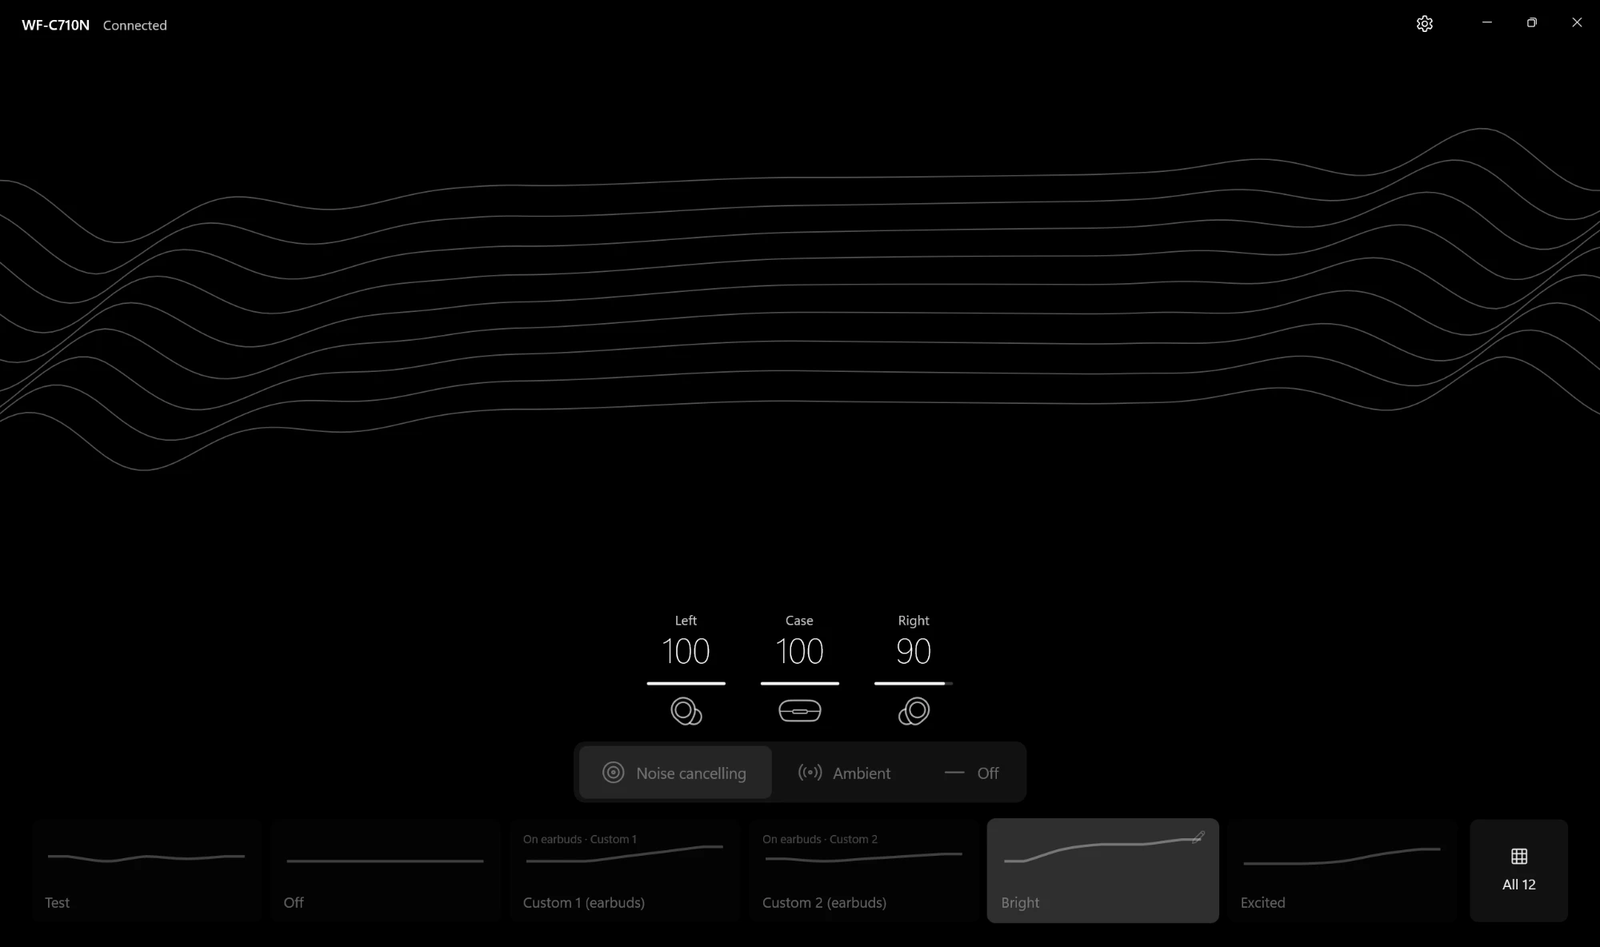
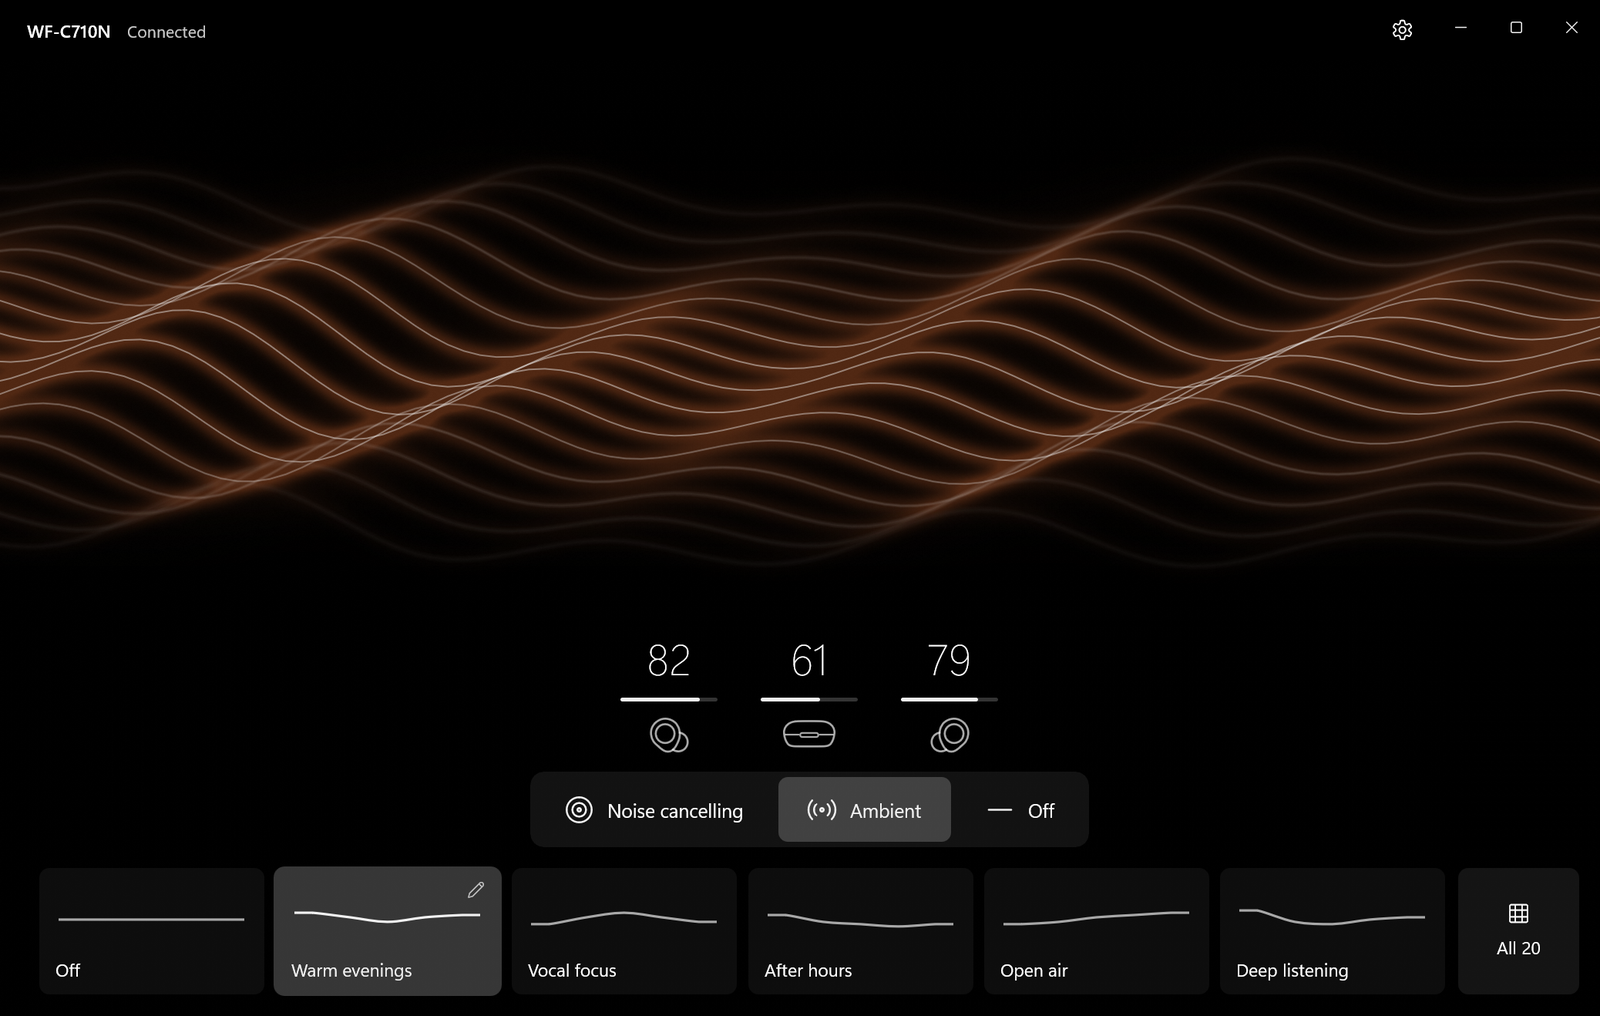
README for 0.6.2 with screenshots taken while music plays
- The README describes the current app: the fifteen lines and their
  colour, the frosted library, the editor's analyser and compare
  afterimage, the Clear Bass column, Start with Windows, and a note that
  changing multipoint reconnects the earbuds.
- New screenshots of the main screen, library, editor, compare and
  settings, with demo music, so the colour shows. The Find your EQ
  render is gone; it predated the current look.
- --readme-shots (development only) takes them: it captures the window
  as Windows composes it, swap chains included.
- The editor's band and Clear Bass labels keep clear of the window's
  bottom edge again; moving Clear Bass into its column had removed the
  row that spaced them.

diff --git a/ui/Dusk.xaml b/ui/Dusk.xaml
@@ -200,10 +200,10 @@
     <Grid x:Name="BandGrid" Margin="44,12,20,12"/>
     <Canvas x:Name="CurveCanvas" Margin="12" IsHitTestVisible="False"/>
    </Grid>
-   <Grid x:Name="BandValues" Grid.Row="2" Margin="148,10,48,0"/>
+   <Grid x:Name="BandValues" Grid.Row="2" Margin="148,10,48,22"/>
    <!-- Clear Bass (0.5.18): Sony's bass processing, not a sixth EQ point, so it is its own glowing
         column beside the graph, at the bass end. Drag it up or down; the glow grows from 0. -->
-   <Grid x:Name="BassRow" Grid.Row="1" Grid.RowSpan="2" Width="64" HorizontalAlignment="Left" Margin="28,16,0,0">
+   <Grid x:Name="BassRow" Grid.Row="1" Grid.RowSpan="2" Width="64" HorizontalAlignment="Left" Margin="28,16,0,22">
     <Grid.RowDefinitions><RowDefinition Height="*"/><RowDefinition Height="Auto"/></Grid.RowDefinitions>
     <Border Background="#05FFFFFF" BorderBrush="#12FFFFFF" BorderThickness="1" CornerRadius="8"/>
     <Grid x:Name="BassTrack" Margin="0,12">

diff --git a/ui/main.cpp b/ui/main.cpp
@@ -88,7 +88,7 @@ static std::wstring review_view = L"Main", review_pass = L"pass1";
 static int initial_width = 1280, initial_height = 800;
 static fs::path review_timeline;
 static double review_time = 30;
-static bool review_sequence = false, review_motion = false, review_wave_motion=false, stage_bench=false; // stage_bench: 25 s of the stage with demo music and GPU timers (development only)
+static bool review_sequence = false, review_motion = false, review_wave_motion=false, stage_bench=false, readme_shots=false; // readme_shots: the README's screenshots, with demo music (development only). stage_bench: 25 s of the stage with demo music and GPU timers (development only)
 
 static Color rgba(unsigned rgb, double alpha = 1) {
     return Color{static_cast<uint8_t>(std::clamp(alpha, 0.0, 1.0) * 255 + .5), static_cast<uint8_t>(rgb >> 16), static_cast<uint8_t>(rgb >> 8), static_cast<uint8_t>(rgb)};
@@ -324,7 +324,11 @@ struct DuskApp : ApplicationT<DuskApp, Markup::IXamlMetadataProvider> {
             bar.ButtonHoverBackgroundColor(rgba(0xFFFFFF, .1));
             if (render_review) {
                 set_review_state();
-                window.AppWindow().MoveAndResize({-20000, -20000, initial_width, initial_height});
+                // Screenshots for the README need the whole page at the screen's scale and the handle
+                // to capture it with; other review exports keep their 1:1 offscreen window.
+                check_hresult(window.as<IWindowNative>()->get_WindowHandle(&main_hwnd));
+                const double shot_scale = readme_shots ? GetDpiForWindow(main_hwnd) / 96.0 : 1.0;
+                window.AppWindow().MoveAndResize({-20000, -20000, static_cast<int>(initial_width * shot_scale), static_cast<int>(initial_height * shot_scale)});
                 root.Width(initial_width);
                 root.Height(initial_height);
                 RectangleGeometry frame;
@@ -819,7 +823,7 @@ struct DuskApp : ApplicationT<DuskApp, Markup::IXamlMetadataProvider> {
     // Find your EQ hides Clear Bass: the graph then takes the column's space back.
     void bass_column(bool shown) {
         get<FrameworkElement>(L"CurveArea").Margin(ThicknessHelper::FromLengths(shown ? 104 : 28, 16, 28, 0));
-        get<FrameworkElement>(L"BandValues").Margin(ThicknessHelper::FromLengths(shown ? 148 : 72, 10, 48, 0));
+        get<FrameworkElement>(L"BandValues").Margin(ThicknessHelper::FromLengths(shown ? 148 : 72, 10, 48, 22)); // the labels keep clear of the window's bottom edge
     }
     void layout_bass() {
         auto track = get<FrameworkElement>(L"BassTrack"); const double h = track.ActualHeight(); if (h < 40) return;
@@ -2451,6 +2455,17 @@ struct DuskApp : ApplicationT<DuskApp, Markup::IXamlMetadataProvider> {
         phase=it->phase;pulse=it->pulse;apply_light();
         apply_field(seconds);
     }
+    // Development (--readme-shots): the window's client area as Windows composes it, swap chains included.
+    void capture_window(fs::path const& file){
+        RECT r{};GetClientRect(main_hwnd,&r);const int w=r.right-r.left,h=r.bottom-r.top;if(w<=0||h<=0)return;
+        HDC screen=GetDC(nullptr);HDC memory=CreateCompatibleDC(screen);
+        BITMAPINFO info{};info.bmiHeader={sizeof(BITMAPINFOHEADER),w,-h,1,32,BI_RGB};void* bits{};
+        HBITMAP bitmap=CreateDIBSection(screen,&info,DIB_RGB_COLORS,&bits,nullptr,0);auto previous=SelectObject(memory,bitmap);
+        PrintWindow(main_hwnd,memory,PW_CLIENTONLY|0x2/*PW_RENDERFULLCONTENT*/);GdiFlush();
+        BITMAPFILEHEADER header{};header.bfType=0x4D42;header.bfOffBits=sizeof(header)+sizeof(BITMAPINFOHEADER);header.bfSize=header.bfOffBits+w*h*4;
+        std::ofstream out(file,std::ios::binary);out.write(reinterpret_cast<const char*>(&header),sizeof(header));out.write(reinterpret_cast<const char*>(&info.bmiHeader),sizeof(BITMAPINFOHEADER));out.write(static_cast<const char*>(bits),static_cast<std::streamsize>(w)*h*4);
+        SelectObject(memory,previous);DeleteObject(bitmap);DeleteDC(memory);ReleaseDC(nullptr,screen);
+    }
     Windows::Foundation::IAsyncAction capture_review(fs::path const& file,std::ofstream* samples=nullptr,double seconds=0){
         Imaging::RenderTargetBitmap bitmap;
         co_await bitmap.RenderAsync(root,initial_width,initial_height);
@@ -2534,6 +2549,27 @@ struct DuskApp : ApplicationT<DuskApp, Markup::IXamlMetadataProvider> {
             std::wstring view = review_view;
             std::transform(view.begin(), view.end(), view.begin(), [](wchar_t c) { return static_cast<wchar_t>(towlower(c)); });
             const auto filename = view + L"-" + std::to_wstring(initial_width) + L"x" + std::to_wstring(initial_height);
+            if(readme_shots){
+                // The README's screenshots: the window as Windows shows it (PrintWindow with the full
+                // composition, so the swap chains are in it), with demo music and sample batteries.
+                set_battery(L"BatteryLeft",82,true);set_battery(L"BatteryRight",79,true);set_battery(L"BatteryCase",61,true);set_controls_live(true,false);
+                animations=true;demo_music=true;glow_level=1;last_tick=precise_ms();
+                navigate(L"Main");set_noise(dusk::Noise::Ambient);
+                for(int i=0;i<150;++i){tick();timer.Stop();unpace();co_await resume_after(std::chrono::milliseconds(16));co_await ui;}
+                capture_window(folder/L"readme-main.bmp");
+                open_drawer();for(int i=0;i<70;++i){tick();timer.Stop();unpace();co_await resume_after(std::chrono::milliseconds(16));co_await ui;}
+                capture_window(folder/L"readme-library.bmp");
+                close_drawer();for(int i=0;i<40;++i){tick();timer.Stop();unpace();co_await resume_after(std::chrono::milliseconds(16));co_await ui;}
+                open_editor();{auto curve=model.current().saved;curve[0]=3;curve[2]=-2;curve[3]=4;curve[5]=4;commit_curve(curve);after_change();}
+                for(int i=0;i<120;++i){tick();timer.Stop();unpace();co_await resume_after(std::chrono::milliseconds(16));co_await ui;}
+                capture_window(folder/L"readme-editor.bmp");
+                start_compare();for(int i=0;i<30;++i){tick();timer.Stop();unpace();co_await resume_after(std::chrono::milliseconds(16));co_await ui;}
+                capture_window(folder/L"readme-compare.bmp");end_compare();
+                navigate(L"Settings");root.UpdateLayout();layout_settings();
+                for(int i=0;i<30;++i){tick();timer.Stop();unpace();co_await resume_after(std::chrono::milliseconds(16));co_await ui;}
+                capture_window(folder/L"readme-settings.bmp");
+                animations=false;demo_music=false;navigate(L"Main");
+            }
             if(stage_bench){
                 animations=true;demo_music=true;glow_level=1;navigate(L"Main");set_noise(dusk::Noise::Ambient);last_tick=precise_ms();
                 const auto until=GetTickCount64()+25000;
@@ -2656,6 +2692,8 @@ int WINAPI wWinMain(HINSTANCE, HINSTANCE, PWSTR command, int) {
     review_time=std::stod(option(L"--audio-time=",L"30"));
     review_wave_motion=args.find(L"--wave-motion-review")!=std::wstring::npos;
     stage_bench=args.find(L"--stage-bench")!=std::wstring::npos;
+    readme_shots=args.find(L"--readme-shots")!=std::wstring::npos;
+    if(readme_shots){initial_width=1200;initial_height=760;}
     review_sequence=args.find(L"--sequence")!=std::wstring::npos;
     review_motion=args.find(L"--motion-review")!=std::wstring::npos;
     if((!review_timeline.empty()||review_sequence||review_motion)&&!render_review)return 2;

diff --git a/README.md b/README.md
@@ -1,36 +1,47 @@
 # Sound Connect
 
-**Sound Connect** is a Windows 11 app and Win + W widget for Sony **WF-C710N** earbuds. It lets
-you check the batteries, switch noise cancelling and ambient sound, and shape the sound with
-your own EQs, without reaching for your phone.
+**Sound Connect** is a Windows 11 app and Win + W widget for Sony **WF-C710N** earbuds. Check
+the batteries, switch noise cancelling and ambient sound, and shape the sound with your own EQs,
+without reaching for your phone.
 
-![Sound Connect's main screen: sound waves that move with your music, battery levels, the three sound modes and six EQs](docs/images/main.png)
+![Sound Connect's main screen with music playing: fifteen glowing sound lines in the music's colour above the battery levels, the three sound modes and six EQs](docs/images/main.png)
 
 ## What it does
 
+- **Watch your music:** fifteen lines on the main screen take the shape of the sound mode and
+  sway with the music, in a colour that follows it. The middle lines are sharp and the outer
+  ones soft, like a camera focused on the centre. With no music the lines drift quietly, and in
+  the tray Sound Connect draws nothing at all.
 - **See everything at a glance:** left, right and case batteries, and whether each earbud is
   connected.
-- **Switch sound modes instantly:** Noise cancelling, Ambient or Off. The waves on the main
-  screen take the shape of the mode and glow softly in time with your music.
+- **Switch sound modes instantly:** Noise cancelling, Ambient or Off.
 - **Keep an EQ library:** Sony's presets, with their real curves read from your earbuds, plus
-  as many of your own EQs as you like. Six of them sit on the main screen, one tap away.
-- **Edit with Sony's own controls:** five bands from 400 Hz to 16 kHz, plus Clear Bass. Changes
-  play on your earbuds as you make them. Hold to compare against how it sounded before, and
-  undo any step.
+  as many of your own EQs as you like. Six sit on the main screen, one tap away. The library
+  opens over the main screen as frosted glass, with the music still moving behind it.
+- **Edit by eye and by ear:** five bands from 400 Hz to 16 kHz, as in Sony's app. A live analyser
+  behind the curve shows what's playing on the same scale, so you can see what each band
+  touches. Changes play on your earbuds as you make them; undo any step.
+- **Compare as you go:** hold **Hold to compare** to hear how it was. Your curve stays put and the
+  old one shows as a dashed line.
+- **Clear Bass on its own:** Sony's bass processing isn't an EQ band, so it has its own glowing
+  column beside the graph.
 - **Find your EQ by ear:** three quick A/B rounds (low end, vocals, upper range) build an EQ
   from what you hear, not from numbers.
 - **Take two EQs with you:** keep any EQ in the earbuds' Custom 1 and Custom 2 slots, for your
   phone and other devices. What's already in those slots is imported the first time you connect.
 - **Change your earbuds' settings:** Bluetooth priority, DSEE, ambient level, voice focus, voice
-  guidance, touch controls, the noise cycle and power options. Only the settings your earbuds
-  support are shown.
+  guidance, touch controls, the noise cycle, power options, connecting to two devices at once
+  and hearing your own voice on calls. Only the settings your earbuds offer are shown.
 - **Use the widget:** batteries, sound mode and your six main EQs in Win + W, without opening
   the app.
-- **Keep it in the tray** when the window is closed, if you like.
+- **Start with Windows and keep it in the tray,** if you like. Both are in Settings > App and
+  widget.
 
-| Edit an EQ | Find your EQ | Your EQs |
+| The library | Editing an EQ | Hold to compare |
 |---|---|---|
-| ![The EQ editor: a curve across five bands from 400 Hz to 16 kHz, with Clear Bass below](docs/images/editor.png) | ![Find your EQ: choosing between two versions of the low end](docs/images/find-your-eq.png) | ![The EQ library: two EQs on the earbuds, six on the main screen, and everything else](docs/images/library.png) |
+| ![The EQ library open as frosted glass over the moving sound lines: two EQs on the earbuds, six on the main screen, and everything else](docs/images/library.png) | ![The EQ editor with music playing: the curve filled with a soft glow, a live analyser behind it, and the Clear Bass column on the left](docs/images/editor.png) | ![Hold to compare: the edited curve, with how it was shown as a dashed line](docs/images/compare.png) |
+
+![Settings: sound, voice and sounds, wearing and power, and touch controls, around a picture of the earbuds](docs/images/settings.png)
 
 ## Install
 
@@ -57,6 +68,12 @@ Sound Connect checks for a new version once a day. When one is out, choose **Upd
 title bar: it downloads, checks the file's checksum and signature, and updates in place,
 keeping your EQs and settings. You can turn the check off in Settings > App and widget. Running
 a newer setup yourself works the same way.
+
+## Good to know
+
+Changing **Connect to two devices at once** makes the earbuds drop every connection and reconnect;
+your phone may need reconnecting from its Bluetooth settings. Sound Connect asks before it
+changes it.
 
 ## Uninstall
 
